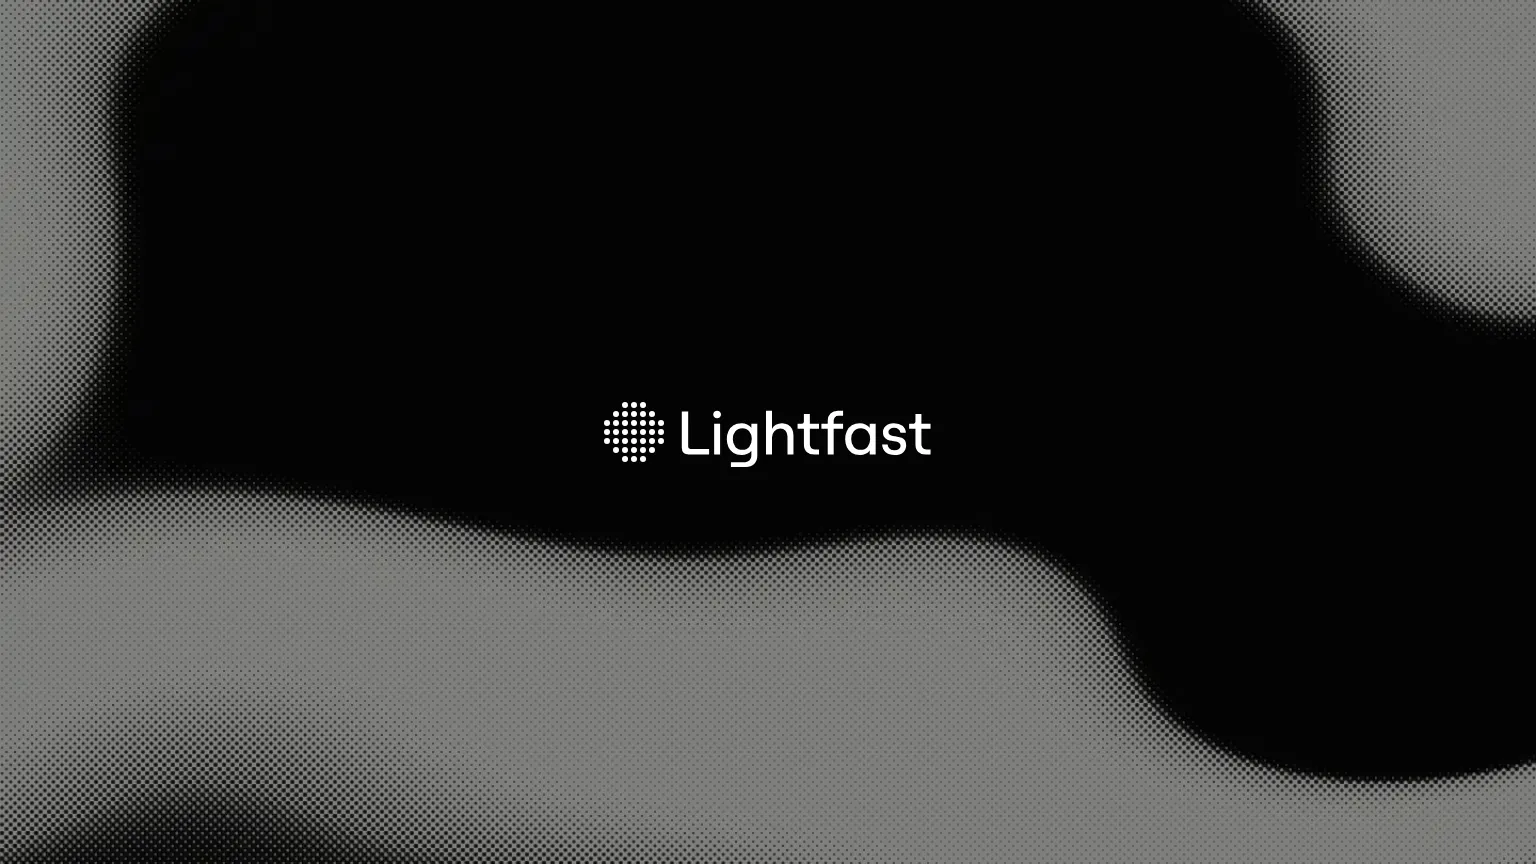
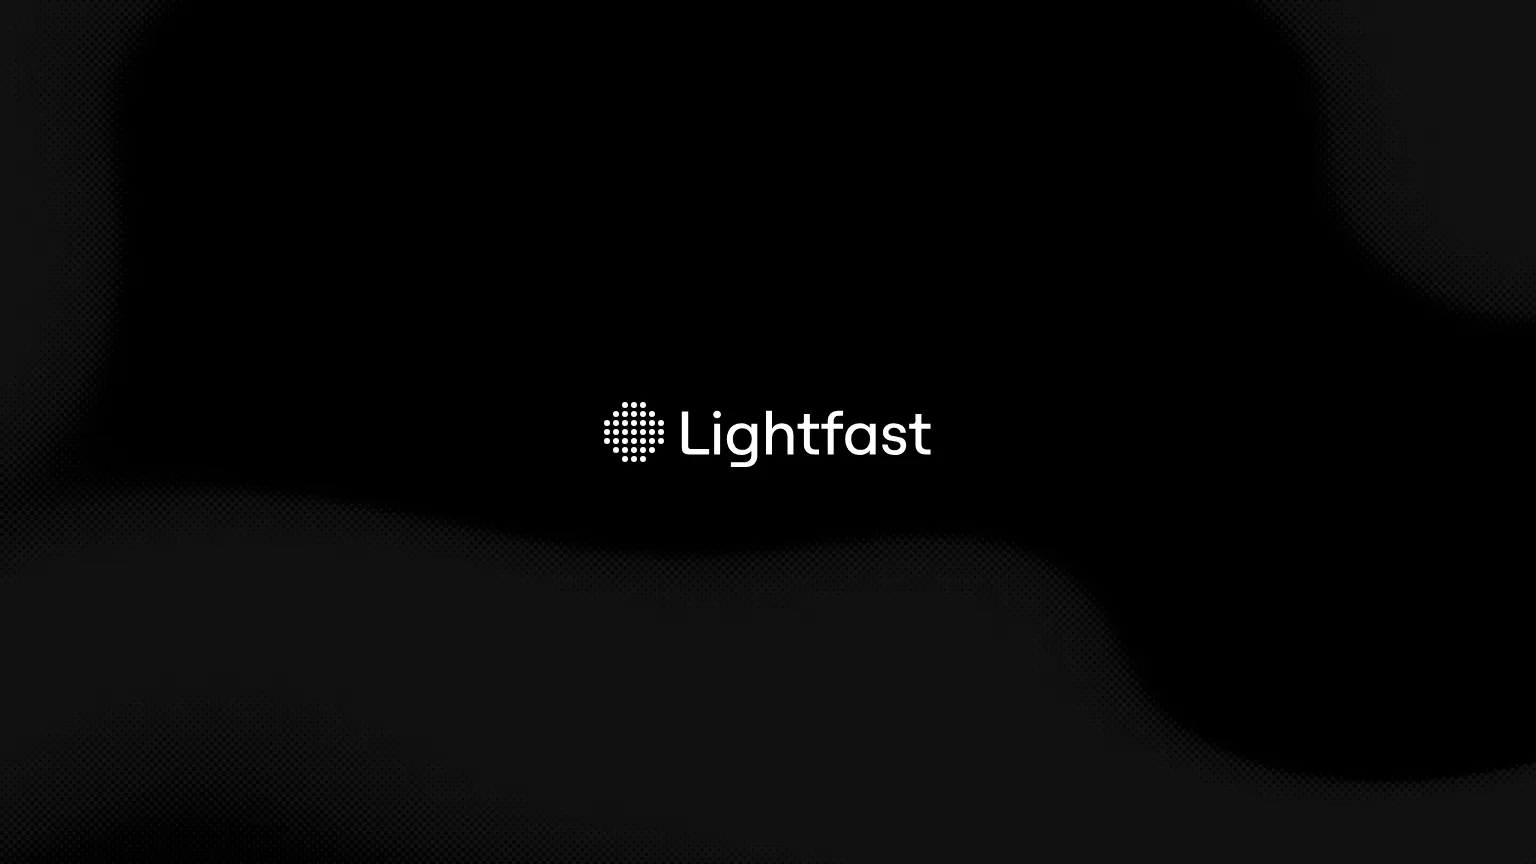
Tune landing hero image background

diff --git a/apps/www/src/app/(site)/(marketing)/page.tsx b/apps/www/src/app/(site)/(marketing)/page.tsx
@@ -29,12 +29,13 @@ export default function HomePage() {
 
       <section className={`pb-16 lg:pb-28 ${marketingLayout.pageTop}`}>
         <h1 className="sr-only">{publication.title}</h1>
-        <MarketingContentBleed className="aspect-video overflow-hidden rounded-xs bg-foreground">
+        <MarketingContentBleed className="aspect-video overflow-hidden rounded-xs bg-muted">
           <Image
             alt=""
             className="object-cover"
             fill
             preload
+            quality={40}
             sizes="(max-width: 640px) calc(100vw - 3rem), (max-width: 1024px) calc(100vw - 5rem), 48rem"
             src="/images/marketing/operating-thesis-panel.webp"
           />
